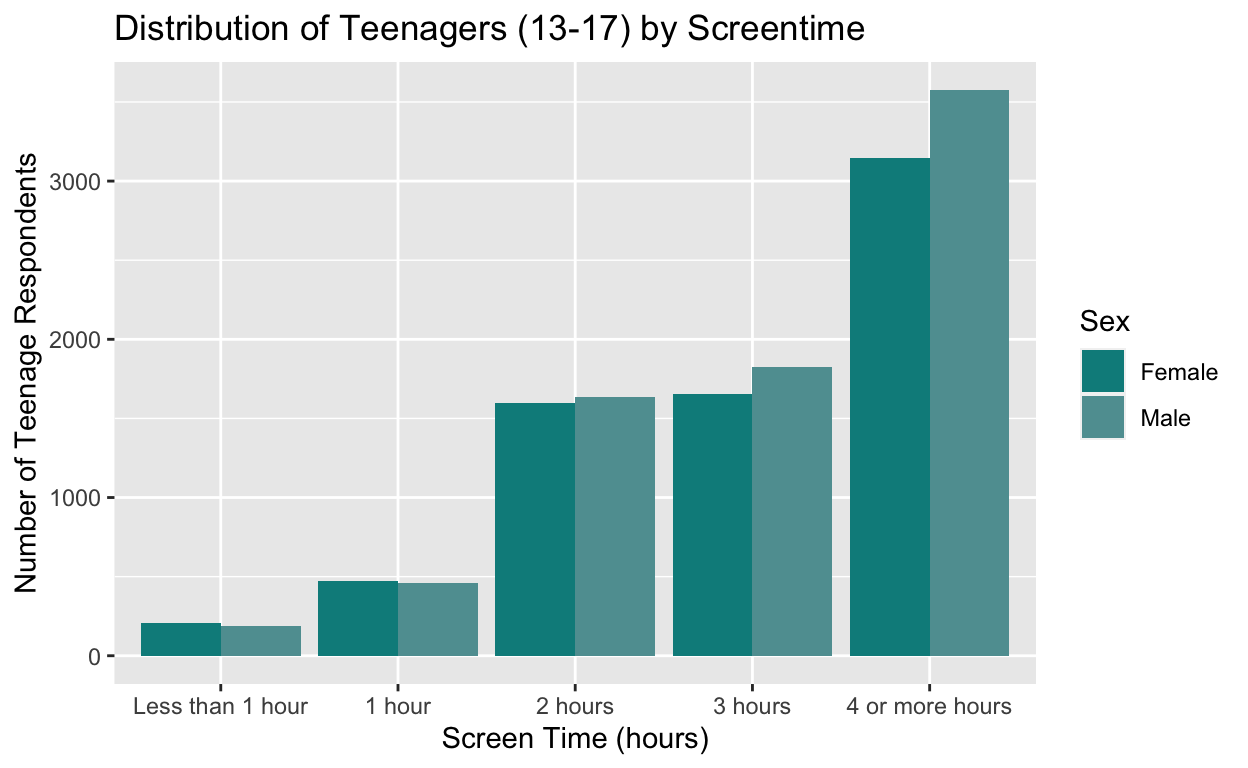
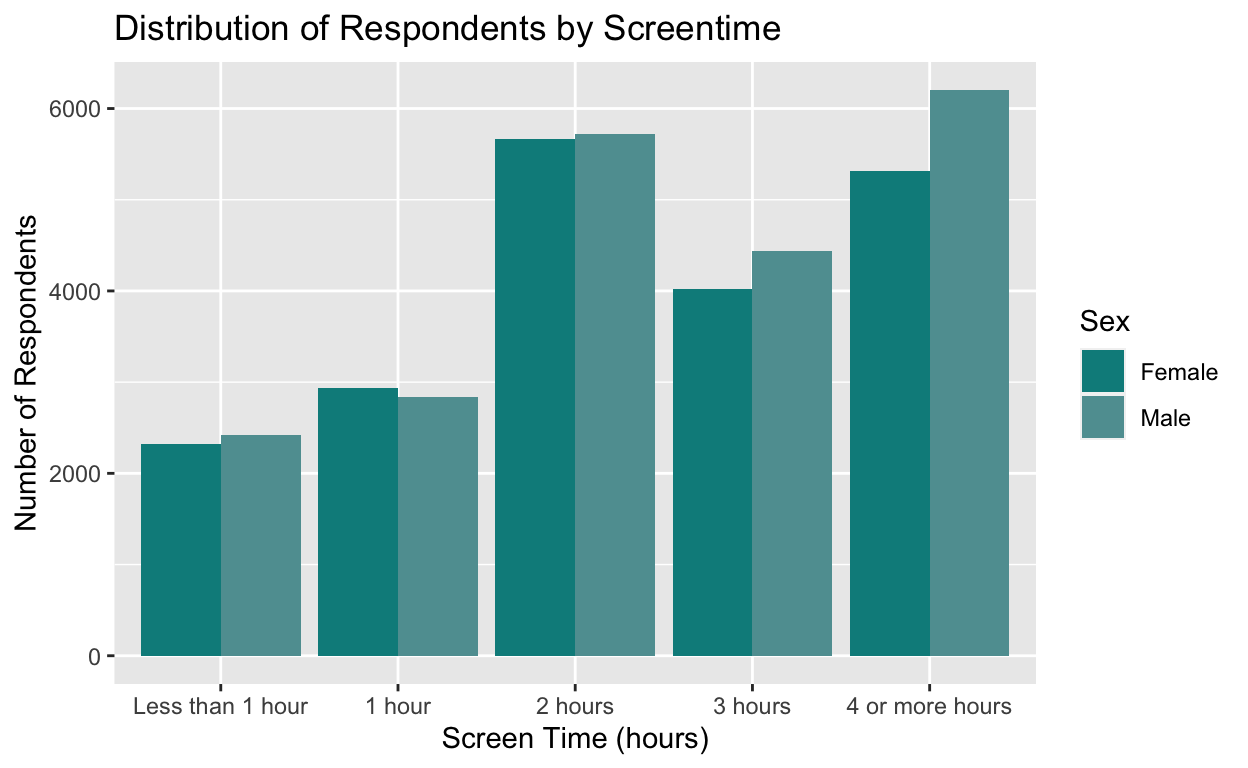
Almost done !

diff --git a/index.html b/index.html
@@ -115,7 +115,7 @@ code span.wa { color: #5e5e5e; font-style: italic; } /* Warning */
   <!--/radix_placeholder_rmarkdown_metadata-->
   
   <script type="text/json" id="radix-resource-manifest">
-  {"type":"character","attributes":{},"value":["index_files/anchor-4.2.2/anchor.min.js","index_files/bowser-1.9.3/bowser.min.js","index_files/distill-2.2.21/template.v2.js","index_files/figure-html5/unnamed-chunk-1-1.png","index_files/figure-html5/unnamed-chunk-10-1.png","index_files/figure-html5/unnamed-chunk-3-1.png","index_files/figure-html5/unnamed-chunk-4-1.png","index_files/figure-html5/unnamed-chunk-6-1.png","index_files/figure-html5/unnamed-chunk-7-1.png","index_files/figure-html5/unnamed-chunk-9-1.png","index_files/header-attrs-2.17/header-attrs.js","index_files/header-attrs-2.24/header-attrs.js","index_files/jquery-3.6.0/jquery-3.6.0.js","index_files/jquery-3.6.0/jquery-3.6.0.min.js","index_files/jquery-3.6.0/jquery-3.6.0.min.map","index_files/popper-2.6.0/popper.min.js","index_files/tippy-6.2.7/tippy-bundle.umd.min.js","index_files/tippy-6.2.7/tippy-light-border.css","index_files/tippy-6.2.7/tippy.css","index_files/tippy-6.2.7/tippy.umd.min.js","index_files/webcomponents-2.0.0/webcomponents.js","Screentime_v_Mental_Health_Dataset.csv"]}
+  {"type":"character","attributes":{},"value":["index_files/anchor-4.2.2/anchor.min.js","index_files/bowser-1.9.3/bowser.min.js","index_files/distill-2.2.21/template.v2.js","index_files/figure-html5/unnamed-chunk-1-1.png","index_files/figure-html5/unnamed-chunk-10-1.png","index_files/figure-html5/unnamed-chunk-11-1.png","index_files/figure-html5/unnamed-chunk-12-1.png","index_files/figure-html5/unnamed-chunk-3-1.png","index_files/figure-html5/unnamed-chunk-4-1.png","index_files/figure-html5/unnamed-chunk-5-1.png","index_files/figure-html5/unnamed-chunk-6-1.png","index_files/figure-html5/unnamed-chunk-7-1.png","index_files/figure-html5/unnamed-chunk-8-1.png","index_files/figure-html5/unnamed-chunk-9-1.png","index_files/header-attrs-2.17/header-attrs.js","index_files/header-attrs-2.24/header-attrs.js","index_files/jquery-3.6.0/jquery-3.6.0.js","index_files/jquery-3.6.0/jquery-3.6.0.min.js","index_files/jquery-3.6.0/jquery-3.6.0.min.map","index_files/popper-2.6.0/popper.min.js","index_files/tippy-6.2.7/tippy-bundle.umd.min.js","index_files/tippy-6.2.7/tippy-light-border.css","index_files/tippy-6.2.7/tippy.css","index_files/tippy-6.2.7/tippy.umd.min.js","index_files/webcomponents-2.0.0/webcomponents.js","Screentime_v_Mental_Health_Dataset.csv"]}
   </script>
   <!--radix_placeholder_navigation_in_header-->
   <!--/radix_placeholder_navigation_in_header-->
@@ -1518,11 +1518,11 @@ code span.wa { color: #5e5e5e; font-style: italic; } /* Warning */
 
 <div class="d-article">
 <h2 id="project-thoughts">Project thoughts</h2>
-<p>INTRODUCTION
-Does screen time affect the mental health of children? The rise of social media apps like Instagram, TikTok, and Snapchat in the 21st century prematurely exposes school-age children to unprecedented content. I hypothesize that the more time children spend on their screens, the worse their mental health. On their screens, youth are exposed to a variety of triggers, including breaking news about climate change or politics, posts from friends exploring the world, and media produced by content creators who exemplify beauty standards. These conduce feelings of despair, FOMO, or self-hatred.</p>
+<p>INTRODUCTION</p>
+<p>Does screen time affect the mental health of children? The rise of social media apps like Instagram, TikTok, and Snapchat in the 21st century prematurely exposes school-age children to unprecedented content. I hypothesize that the more time children spend on their screens, the worse their mental health. On their screens, youth are exposed to a variety of triggers, including breaking news about climate change or politics, posts from friends exploring the world, and media produced by content creators who exemplify beauty standards. These conduce feelings of despair, FOMO, or self-hatred.</p>
 <p>Adolescents remain a demographic most susceptible to experiencing mental health disorders like depression and anxiety. According to the CDC, suicide is one of the five leading causes of death among individuals aged 12 - 19. Should screentime be a significant factor that contributes to this phenomena, there is a clear need for society to peel teenagers from their screen. Currently, educational policies embrace technology: many students in high school and middle school are expected to conduct research using internet resources and to turn in assignments online. While this has no doubt made learning more efficient, it is worthwhile to ponder whether there are any alternative strategies that can be widely implemented that encourage students to spend more time away from their screens, practicing hobbies like art, sports, or music.</p>
-<p>DATA SOURCE DISCUSSION
-My data set it titled “The Effect of Screentime on the Mental Health of Children.” This data is from 2020 and comes from the National Survey of Children’s Health. This study measured weekday screen time, defined as time in front of a television, computer, mobile device, or other electronic tablet spent watching programming, playing games, accessing the internet, or using social media. The data in this survey is solicited every year by the U.S. Census Bureau and is funded by the HRSA (Health Resources &amp; Services Administration). Approximately 360,000 addresses were sampled, using an instrument that screens and selects households, and eligible responses were received from just over 67,000. The questionnaire was administered by a professional knowledgeable about the health and health care of the given child. Households were able to complete the NSCH online, on paper, or over the phone in Spanish or English.</p>
+<p>DATA SOURCE DISCUSSION</p>
+<p>My data set it titled “The Effect of Screentime on the Mental Health of Children.” This data is from 2020 and comes from the National Survey of Children’s Health. This study measured weekday screen time, defined as time in front of a television, computer, mobile device, or other electronic tablet spent watching programming, playing games, accessing the internet, or using social media. The data in this survey is solicited every year by the U.S. Census Bureau and is funded by the HRSA (Health Resources &amp; Services Administration). Approximately 360,000 addresses were sampled, using an instrument that screens and selects households, and eligible responses were received from just over 67,000. The questionnaire was administered by a professional knowledgeable about the health and health care of the given child. Households were able to complete the NSCH online, on paper, or over the phone in Spanish or English.</p>
 <p>Weekday screentime is the independent variable of this study and is measured in individuals ages 17 or younger. The dependent variable is mental health, which is measured by reported instances of mental health treatment or mental health treatment needed. If an adolescent sought or needed mental health treatment, this is considered as (1) in the data set; if the adolescent did not seek and did not need mental health treatment, this was counted as (0) in the data set. Both the independent and dependent variable were measured using survey methods in a cross-sectional study (the survey was distributed at a singular point in time).</p>
 <div class="layout-chunk" data-layout="l-body">
 <div class="sourceCode">
@@ -1631,6 +1631,94 @@ My data set it titled “The Effect of Screentime on the Mental Health of Childr
 <p>When we examine the table that takes into account gender, there are slight deviations between male and female children. For shorter screen times (such as less than one hour, 1 hour, and 2 hours), boys are more likely to seek treatment than their female counterparts that have the same screentime. On the other hand for longer screen times (such as 3 hours and 4 hours or more), girls are more likely to seek treatment than their male counterparts.</p>
 <div class="layout-chunk" data-layout="l-body">
 <div class="sourceCode">
+<pre class="sourceCode r"><code class="sourceCode r"><span><span class='va'>all_count</span> <span class='op'>&lt;-</span> <span class='va'>file</span> <span class='op'>|&gt;</span></span>
+<span>  <span class='fu'><a href='https://dplyr.tidyverse.org/reference/group_by.html'>group_by</a></span><span class='op'>(</span><span class='va'>Screentime</span>, <span class='va'>Sex</span><span class='op'>)</span> <span class='op'>|&gt;</span></span>
+<span>  <span class='fu'><a href='https://dplyr.tidyverse.org/reference/summarise.html'>summarize</a></span><span class='op'>(</span>n <span class='op'>=</span> <span class='fu'><a href='https://dplyr.tidyverse.org/reference/context.html'>n</a></span><span class='op'>(</span><span class='op'>)</span><span class='op'>)</span> <span class='op'>|&gt;</span></span>
+<span>  <span class='fu'><a href='https://ggplot2.tidyverse.org/reference/ggplot.html'>ggplot</a></span><span class='op'>(</span>mapping <span class='op'>=</span> <span class='fu'><a href='https://ggplot2.tidyverse.org/reference/aes.html'>aes</a></span><span class='op'>(</span>x <span class='op'>=</span> <span class='fu'><a href='https://rdrr.io/r/base/factor.html'>factor</a></span><span class='op'>(</span><span class='va'>Screentime</span>, <span class='va'>screen_time</span><span class='op'>)</span>, y <span class='op'>=</span> <span class='va'>n</span>, fill <span class='op'>=</span> <span class='va'>Sex</span><span class='op'>)</span><span class='op'>)</span> <span class='op'>+</span></span>
+<span>  <span class='fu'><a href='https://ggplot2.tidyverse.org/reference/geom_bar.html'>geom_col</a></span><span class='op'>(</span>position <span class='op'>=</span> <span class='st'>"dodge"</span><span class='op'>)</span> <span class='op'>+</span></span>
+<span>  <span class='fu'><a href='https://ggplot2.tidyverse.org/reference/scale_manual.html'>scale_fill_manual</a></span><span class='op'>(</span>values <span class='op'>=</span> <span class='fu'><a href='https://rdrr.io/r/base/c.html'>c</a></span><span class='op'>(</span>Male <span class='op'>=</span> <span class='st'>"cadetblue"</span>, Female <span class='op'>=</span> <span class='st'>"cyan4"</span><span class='op'>)</span><span class='op'>)</span> <span class='op'>+</span></span>
+<span>  <span class='fu'><a href='https://ggplot2.tidyverse.org/reference/labs.html'>labs</a></span><span class='op'>(</span>x <span class='op'>=</span> <span class='st'>"Screen Time (hours)"</span>,</span>
+<span>       y <span class='op'>=</span> <span class='st'>"Number of Respondents"</span>,</span>
+<span>       title <span class='op'>=</span> <span class='st'>"Distribution of Respondents by Screentime"</span></span>
+<span>  <span class='op'>)</span></span>
+<span><span class='va'>all_count</span></span></code></pre>
+</div>
+<p><img src="index_files/figure-html5/unnamed-chunk-3-1.png" width="624" /></p>
+</div>
+<p>The graph shows that there was significant response from all categories, at least 2000 data points across each division of screen time for each gender (at least 4000 respondents in each independent variable category).</p>
+<div class="layout-chunk" data-layout="l-body">
+<div class="sourceCode">
+<pre class="sourceCode r"><code class="sourceCode r"><span><span class='va'>all_regression</span> <span class='op'>&lt;-</span> <span class='va'>file</span> <span class='op'>|&gt;</span></span>
+<span>  <span class='fu'><a href='https://dplyr.tidyverse.org/reference/mutate.html'>mutate</a></span><span class='op'>(</span></span>
+<span>    treatment <span class='op'>=</span> <span class='fu'><a href='https://dplyr.tidyverse.org/reference/if_else.html'>if_else</a></span><span class='op'>(</span><span class='va'>Mental.Health.Treatment</span> <span class='op'>==</span> <span class='st'>"Needs Treatment"</span>, <span class='fl'>1</span>, <span class='fl'>0</span><span class='op'>)</span></span>
+<span>  <span class='op'>)</span> <span class='op'>|&gt;</span></span>
+<span>  <span class='fu'><a href='https://dplyr.tidyverse.org/reference/mutate.html'>mutate</a></span><span class='op'>(</span></span>
+<span>    numeric_screentime <span class='op'>=</span> <span class='fu'><a href='https://dplyr.tidyverse.org/reference/case_when.html'>case_when</a></span><span class='op'>(</span></span>
+<span>      <span class='va'>Screentime</span> <span class='op'>==</span> <span class='st'>"Less than 1 hour"</span> <span class='op'>~</span> <span class='fl'>0.5</span>,</span>
+<span>      <span class='va'>Screentime</span> <span class='op'>==</span> <span class='st'>"1 hour"</span> <span class='op'>~</span> <span class='fl'>1</span>,</span>
+<span>      <span class='va'>Screentime</span> <span class='op'>==</span> <span class='st'>"2 hours"</span> <span class='op'>~</span> <span class='fl'>2</span>,</span>
+<span>      <span class='va'>Screentime</span> <span class='op'>==</span> <span class='st'>"3 hours"</span> <span class='op'>~</span> <span class='fl'>3</span>,</span>
+<span>      <span class='va'>Screentime</span> <span class='op'>==</span> <span class='st'>"4 or more hours"</span> <span class='op'>~</span> <span class='fl'>4.5</span></span>
+<span>    <span class='op'>)</span></span>
+<span>  <span class='op'>)</span></span>
+<span></span>
+<span><span class='va'>regression_4</span> <span class='op'>&lt;-</span> <span class='fu'><a href='https://rdrr.io/r/stats/lm.html'>lm</a></span><span class='op'>(</span><span class='va'>treatment</span> <span class='op'>~</span> <span class='va'>numeric_screentime</span>, data <span class='op'>=</span> <span class='va'>all_regression</span><span class='op'>)</span></span>
+<span></span>
+<span><span class='va'>varnames_1</span> <span class='op'>&lt;-</span> <span class='fu'><a href='https://rdrr.io/r/base/c.html'>c</a></span><span class='op'>(</span></span>
+<span>  <span class='st'>"(Intercept)"</span> <span class='op'>=</span> <span class='st'>"Intercept"</span>,</span>
+<span>  <span class='st'>"numeric_screentime"</span> <span class='op'>=</span> <span class='st'>"Hourly Screentime"</span></span>
+<span><span class='op'>)</span></span>
+<span></span>
+<span><span class='fu'>modelsummary</span><span class='fu'>::</span><span class='fu'><a href='https://rdrr.io/pkg/modelsummary/man/modelsummary.html'>modelsummary</a></span><span class='op'>(</span></span>
+<span>    <span class='va'>regression_4</span>, </span>
+<span>    statistic <span class='op'>=</span> <span class='st'>"p.value"</span>,</span>
+<span>    gof_map <span class='op'>=</span> <span class='fu'><a href='https://rdrr.io/r/base/c.html'>c</a></span><span class='op'>(</span><span class='st'>"nobs"</span>, <span class='st'>"r.squared"</span>, <span class='st'>"adj.r.squared"</span><span class='op'>)</span>,</span>
+<span>    coef_map <span class='op'>=</span> <span class='va'>varnames_1</span><span class='op'>)</span></span></code></pre>
+</div>
+<table>
+<thead>
+<tr class="header">
+<th style="text-align: left;"></th>
+<th style="text-align: right;">(1)</th>
+</tr>
+</thead>
+<tbody>
+<tr class="odd">
+<td style="text-align: left;">Intercept</td>
+<td style="text-align: right;">0.019</td>
+</tr>
+<tr class="even">
+<td style="text-align: left;"></td>
+<td style="text-align: right;">(&lt;0.001)</td>
+</tr>
+<tr class="odd">
+<td style="text-align: left;">Hourly Screentime</td>
+<td style="text-align: right;">0.045</td>
+</tr>
+<tr class="even">
+<td style="text-align: left;"></td>
+<td style="text-align: right;">(&lt;0.001)</td>
+</tr>
+<tr class="odd">
+<td style="text-align: left;">Num.Obs.</td>
+<td style="text-align: right;">41890</td>
+</tr>
+<tr class="even">
+<td style="text-align: left;">R2</td>
+<td style="text-align: right;">0.034</td>
+</tr>
+<tr class="odd">
+<td style="text-align: left;">R2 Adj.</td>
+<td style="text-align: right;">0.034</td>
+</tr>
+</tbody>
+</table>
+</div>
+<p>Given that the survey asked for categorical responses (e.g. “less than 1 hour” or “4 or more hours”), this variable was turned into numerical times. Therefore, all teenagers in my data analysis were assigned screen times of 0.5 (corresponding to “less than 1 hour”), 1, 2, 3, or 4.5 (corresponding to “4 or more hours”) hours. While there may be intrinsic flaws with this conversion (for example, “4 or more hours” includes 8 hours of screen time and “less than 1 hour” includes 15 minutes of screen time), this was a necessary step for synthesizing the data.</p>
+<p>We can see from the table above that the intercept is roughly 0.02, which implies that—when all other variables are 0, i.e. when a given individual under 18 years of age consistently does not spend any time on their screen on weekdays, approximately 2 percent of these individuals will still require or seek mental health treatment. The slope is about 0.045, which means that for every increased hour of screen time, approximately 4.5 percent more individuals require or seek mental health treatment.</p>
+<p>The coefficients in this table have very small p-values (both less than 0.001), which is less than the alpha value of 0.05, implying that these results are statistically significant. Since this study was conducted in a cross-sectional format, I do not believe that the relationship between screen time and mental health treatment can be interpreted causally here, though there is certainly a very strong correlation.</p>
+<div class="layout-chunk" data-layout="l-body">
+<div class="sourceCode">
 <pre class="sourceCode r"><code class="sourceCode r"><span><span class='va'>teenagers</span> <span class='op'>&lt;-</span> <span class='va'>file</span> <span class='op'>|&gt;</span></span>
 <span>  <span class='fu'><a href='https://dplyr.tidyverse.org/reference/filter.html'>filter</a></span><span class='op'>(</span><span class='va'>Age..Years.</span> <span class='op'>&gt;=</span> <span class='fl'>13</span><span class='op'>)</span> <span class='op'>|&gt;</span></span>
 <span>  <span class='fu'><a href='https://dplyr.tidyverse.org/reference/mutate.html'>mutate</a></span><span class='op'>(</span></span>
@@ -1649,7 +1737,7 @@ My data set it titled “The Effect of Screentime on the Mental Health of Childr
 <span>  <span class='op'>)</span></span>
 <span><span class='va'>teenagers_count</span></span></code></pre>
 </div>
-<p><img src="index_files/figure-html5/unnamed-chunk-3-1.png" width="624" /></p>
+<p><img src="index_files/figure-html5/unnamed-chunk-5-1.png" width="624" /></p>
 </div>
 <p>The graph above shows that, among teenagers, the vast majority spend at least 2 hours on their screens. In fact, a significant proportion spend 4 or more hours of their weekdays dedicated to screentime. We can also see that, more male respondents than female respondents have screen time that falls in the categories of 2, 3, and 4 + hours, whereas the trend is flipped for the 1 hour or less than 1 hour categories.</p>
 <div class="layout-chunk" data-layout="l-body">
@@ -1667,9 +1755,9 @@ My data set it titled “The Effect of Screentime on the Mental Health of Childr
 <span>       source <span class='op'>=</span> <span class='st'>"National Survey of Children’s Health (NSCH), 2020"</span><span class='op'>)</span></span>
 <span><span class='va'>teenagers_graph</span></span></code></pre>
 </div>
-<p><img src="index_files/figure-html5/unnamed-chunk-4-1.png" width="624" /></p>
+<p><img src="index_files/figure-html5/unnamed-chunk-6-1.png" width="624" /></p>
 </div>
-<p>e can see that there is a significant upward trend: female teenagers with 4 or more hours of screen time are report twice as high rates of mental health treatment than their counterparts with screen times of less than 1 hour (approximately 0.32 and 0.16, respectively). It is interesting that the rates of mental health treatment decrease for teenagers from screen times of less than 1 hour to screen times of 1 hour, but otherwise there is a clear positive relationship between screen time and average need for mental health for teenagers.</p>
+<p>We can see that there is an upward trend: female teenagers with 4 or more hours of screen time are report twice as high rates of mental health treatment than their counterparts with screen times of less than 1 hour (approximately 0.32 and 0.16, respectively). It is interesting that the rates of mental health treatment decrease for teenagers from screen times of less than 1 hour to screen times of 1 hour, but otherwise there is a clear positive relationship between screen time and average need for mental health for teenagers.</p>
 <p>It is particularly interesting to note that rates of mental health treatment are higher for female teenagers than male teenagers, though the general positive applies for both genders. This is particularly evident for teenagers who spend 2, 3, or 4+ hours on screens. In fact, female teens who spend 4+ hours on screens are 10% more likely to require/seek mentla health treatment than their male teen counterparts.</p>
 <div class="layout-chunk" data-layout="l-body">
 <div class="sourceCode">
@@ -1736,8 +1824,7 @@ My data set it titled “The Effect of Screentime on the Mental Health of Childr
 </tbody>
 </table>
 </div>
-<p>Given that the survey asked for categorical responses (e.g. “less than 1 hour” or “4 or more hours”), this variable was turned into numerical times. Therefore, all teenagers in my data analysis were assigned screen times of 0.5 (corresponding to “less than 1 hour”), 1, 2, 3, or 4.5 (corresponding to “4 or more hours”) hours. While there may be intrinsic flaws with this conversion (for example, “4 or more hours” includes 8 hours of screen time and “less than 1 hour” includes 15 minutes of screen time), this was a necessary step for synthesizing the data.</p>
-<p>We can see from the table above that the intercept is roughly 0.07, which implies that—when all other variables are 0, i.e. when a given teenager consistently does not spend any time on their screen on weekdays, approximately 7 percent of these teenagers will still require or seek mental health treatment. This is the largest intercept of all three age groups, which suggests that teenagers have the largest baseline need for seeking mental health treatment. The slope is about 0.04, which means that for every increased hour of screen time, approximately 4 percent more teenagers require or seek mental health treatment.</p>
+<p>We can see from the table above that the intercept is roughly 0.07, which implies that—when all other variables are 0, i.e. when a given teenager consistently does not spend any time on their screen on weekdays, approximately 7 percent of these teenagers will still require or seek mental health treatment. This is the largest intercept of all three age groups, which suggests that teenagers have the largest baseline need for seeking mental health treatment. The slope is about 0.04, which means that for every increased hour of screen time, approximately 4 percent more teenagers require or seek mental health treatment. This is the greatest slope across the three age groups, which also suggests that teenagers are most susceptible to the effects of screen time on mental health (if there is any causal effect).</p>
 <p>The coefficients in this table have very small p-values (both less than 0.001), less than the alpha value of 0.05, which implies that these results are statistically significant. Since this study was conducted in a cross-sectional format, I do not believe that the relationship between screen time and mental health treatment can be interpreted causally here, though there is certainly a very strong correlation.</p>
 <div class="layout-chunk" data-layout="l-body">
 <div class="sourceCode">
@@ -1759,7 +1846,7 @@ My data set it titled “The Effect of Screentime on the Mental Health of Childr
 <span>  <span class='op'>)</span></span>
 <span><span class='va'>children_count</span></span></code></pre>
 </div>
-<p><img src="index_files/figure-html5/unnamed-chunk-6-1.png" width="624" /></p>
+<p><img src="index_files/figure-html5/unnamed-chunk-8-1.png" width="624" /></p>
 </div>
 <p>Unsurprisingly, it appears that children aged 0-6 spend much less time on screens than their teenage counterparts. Here, we can see that the vast majority of children fall into the categories of less than 1 hour, 1 hour, or 2 hours of screen time.</p>
 <div class="layout-chunk" data-layout="l-body">
@@ -1777,7 +1864,7 @@ My data set it titled “The Effect of Screentime on the Mental Health of Childr
 <span>       source <span class='op'>=</span> <span class='st'>"National Survey of Children’s Health (NSCH), 2020"</span><span class='op'>)</span></span>
 <span><span class='va'>children_graph</span></span></code></pre>
 </div>
-<p><img src="index_files/figure-html5/unnamed-chunk-7-1.png" width="624" /></p>
+<p><img src="index_files/figure-html5/unnamed-chunk-9-1.png" width="624" /></p>
 </div>
 <p>The positive linear relationship between screen time and mental health treatment is quite evident from this graph. It is worth noting that the scale of this graph differs from the one before: children aged 0 - 6 are much less likely to seek or require mental health treatment if at all. It is still clear, however, that children who spend more time on their screens are more likely to seek or require mental health treatment: children who spend 4 or more hours on their screens are 3-4 times more likely to need mental heath treatment compared to their counterparts who spend less than an hour on screens.</p>
 <p>The gender trend found for teens is reversed in children: in general, male children are more likely to need mental health treatment than their female counterparts. For example, among children who spend 2 or 3 hours on their screens, boys are twice as likely to need mental health treatment than their female counterparts (roughly 5% for boys vs roughly 2.5% for girls).</p>
@@ -1846,7 +1933,7 @@ My data set it titled “The Effect of Screentime on the Mental Health of Childr
 <div class="layout-chunk" data-layout="l-body">
 <div class="sourceCode">
 <pre class="sourceCode r"><code class="sourceCode r"><span><span class='va'>adolescents</span> <span class='op'>&lt;-</span> <span class='va'>file</span> <span class='op'>|&gt;</span></span>
-<span>  <span class='fu'><a href='https://dplyr.tidyverse.org/reference/filter.html'>filter</a></span><span class='op'>(</span><span class='va'>Age..Years.</span> <span class='op'>&gt;</span> <span class='fl'>6</span> <span class='op'>|</span> <span class='va'>Age..Years.</span> <span class='op'>&lt;</span> <span class='fl'>13</span><span class='op'>)</span> <span class='op'>|&gt;</span></span>
+<span>  <span class='fu'><a href='https://dplyr.tidyverse.org/reference/filter.html'>filter</a></span><span class='op'>(</span><span class='va'>Age..Years.</span> <span class='op'>&gt;</span> <span class='fl'>6</span> <span class='op'>&amp;</span> <span class='va'>Age..Years.</span> <span class='op'>&lt;</span> <span class='fl'>13</span><span class='op'>)</span> <span class='op'>|&gt;</span></span>
 <span>  <span class='fu'><a href='https://dplyr.tidyverse.org/reference/mutate.html'>mutate</a></span><span class='op'>(</span></span>
 <span>    treatment <span class='op'>=</span> <span class='fu'><a href='https://dplyr.tidyverse.org/reference/if_else.html'>if_else</a></span><span class='op'>(</span><span class='va'>Mental.Health.Treatment</span> <span class='op'>==</span> <span class='st'>"Needs Treatment"</span>, <span class='fl'>1</span>, <span class='fl'>0</span><span class='op'>)</span></span>
 <span>  <span class='op'>)</span></span>
@@ -1863,7 +1950,7 @@ My data set it titled “The Effect of Screentime on the Mental Health of Childr
 <span>  <span class='op'>)</span></span>
 <span><span class='va'>adolescent_count</span></span></code></pre>
 </div>
-<p><img src="index_files/figure-html5/unnamed-chunk-9-1.png" width="624" /></p>
+<p><img src="index_files/figure-html5/unnamed-chunk-11-1.png" width="624" /></p>
 </div>
 <p>Overall, most adolescents aged 7 - 12 spend 2 hours, 3 hours, or 4 or more hours on screens.</p>
 <div class="layout-chunk" data-layout="l-body">
@@ -1881,7 +1968,7 @@ My data set it titled “The Effect of Screentime on the Mental Health of Childr
 <span>       source <span class='op'>=</span> <span class='st'>"National Survey of Children’s Health (NSCH), 2020"</span><span class='op'>)</span></span>
 <span><span class='va'>adolescents_graph</span></span></code></pre>
 </div>
-<p><img src="index_files/figure-html5/unnamed-chunk-10-1.png" width="624" /></p>
+<p><img src="index_files/figure-html5/unnamed-chunk-12-1.png" width="624" /></p>
 </div>
 <p>There is a similar upward trend shown here: across both male and female adolescents, an increase in screen time can be correlated with a greater proportion of these adolescents seeking mental health treatment. For individuals in this age category, those who spend 4+ hours on their screens are over 4 times more likely to need mental health treatment (between 20 to 25 percent) compared to those who spend less than 1 hour (about 5 percent).</p>
 <p>Trends in the effect of gender on mental health treatment are less clear for this group. Among adolescents who spend 2 or fewer hhours on their screens, males have slightly higher rates of mental health treatment, whereas among adolescents who spend 3 or more hours on their screens, females have higher rates of mental health treatment than their male counterparts.</p>
@@ -1916,7 +2003,7 @@ My data set it titled “The Effect of Screentime on the Mental Health of Childr
 <tbody>
 <tr class="odd">
 <td style="text-align: left;">Intercept</td>
-<td style="text-align: right;">0.019</td>
+<td style="text-align: right;">0.097</td>
 </tr>
 <tr class="even">
 <td style="text-align: left;"></td>
@@ -1924,7 +2011,7 @@ My data set it titled “The Effect of Screentime on the Mental Health of Childr
 </tr>
 <tr class="odd">
 <td style="text-align: left;">Hourly Screentime</td>
-<td style="text-align: right;">0.045</td>
+<td style="text-align: right;">0.023</td>
 </tr>
 <tr class="even">
 <td style="text-align: left;"></td>
@@ -1932,23 +2019,23 @@ My data set it titled “The Effect of Screentime on the Mental Health of Childr
 </tr>
 <tr class="odd">
 <td style="text-align: left;">Num.Obs.</td>
-<td style="text-align: right;">41890</td>
+<td style="text-align: right;">13275</td>
 </tr>
 <tr class="even">
 <td style="text-align: left;">R2</td>
-<td style="text-align: right;">0.034</td>
+<td style="text-align: right;">0.007</td>
 </tr>
 <tr class="odd">
 <td style="text-align: left;">R2 Adj.</td>
-<td style="text-align: right;">0.034</td>
+<td style="text-align: right;">0.006</td>
 </tr>
 </tbody>
 </table>
 </div>
-<p>We can see from the table above that the intercept is around 0.02, which implies that—when all other variables are 0, i.e. when a given adolescent consistently does not spend any time on their screen on weekdays, only about 2 percent of these children will still require or seek mental health treatment. The slope is 0.045, which means that for every increased hour of screen time, approximately 4.5 percent more adolescents require or seek mental health treatment. Of the three age groups, this is the greatest slope, which suggests that the effects of screen time on mental health — if they are causal — are most severe for adolescents.</p>
+<p>We can see from the table above that the intercept is around 0.01, which implies that—when all other variables are 0, i.e. when a given adolescent consistently does not spend any time on their screen on weekdays, only about 1 percent of these children will still require or seek mental health treatment. The slope is 0.023, which means that for every increased hour of screen time, approximately 2.3 percent more adolescents require or seek mental health treatment.</p>
 <p>The coefficients in this table also have very small p-values (the p-value of both the intercept and screen time are less than 0.001), less than the alpha value of 0.05, which implies that these results are statistically significant. Since this study was conducted in a cross-sectional format, I do not believe that the relationship between screen time and mental health treatment can be interpreted causally here, though there is certainly a very strong correlation.</p>
-<p>CONCLUSION
-The results show a very strong relationship between screen time and mental health of children. There is a clear linear trend depicting that, with more time spent on screens, children are more likely to seek treatment for mental health. There are several limitations to and factors of consideration for this study. For example, this study was conducted during the COVID-19 pandemic and around the time of the 2020 presidential election, both of which may have been perceived as quite serious and emotionally disturbing occurrences, even to children. It is also worth noting that there may have been self-selection bias, given that survey respondents opted into the survey, or response bias, since many parent respondents may be in denial of how much they allow their children to spend online and would consequently under-report this value. With more time and money, it would be interesting to repeat this experiment at a more politically and socially neutral time (in order to minimize the effects of naturally mental health disorder inducing events). Furthermore, we could minimize responder bias by using an app or program that measures screen time objectively (like combining the “screen time” reports on iPhones in settings), rather than relying on parents to estimate off of top of mind.</p>
+<p>CONCLUSION</p>
+<p>The results show a very strong relationship between screen time and mental health of children. There is a clear linear trend depicting that, with more time spent on screens, children are more likely to seek treatment for mental health. There are several limitations to and factors of consideration for this study. For example, this study was conducted during the COVID-19 pandemic and around the time of the 2020 presidential election, both of which may have been perceived as quite serious and emotionally disturbing occurrences, even to children. It is also worth noting that there may have been self-selection bias, given that survey respondents opted into the survey, or response bias, since many parent respondents may be in denial of how much they allow their children to spend online and would consequently under-report this value. With more time and money, it would be interesting to repeat this experiment at a more politically and socially neutral time (in order to minimize the effects of naturally mental health disorder inducing events). Furthermore, we could minimize responder bias by using an app or program that measures screen time objectively (like combining the “screen time” reports on iPhones in settings), rather than relying on parents to estimate off of top of mind.</p>
 <div class="sourceCode" id="cb1"><pre class="sourceCode r distill-force-highlighting-css"><code class="sourceCode r"></code></pre></div>
 <!--radix_placeholder_article_footer-->
 <!--/radix_placeholder_article_footer-->
